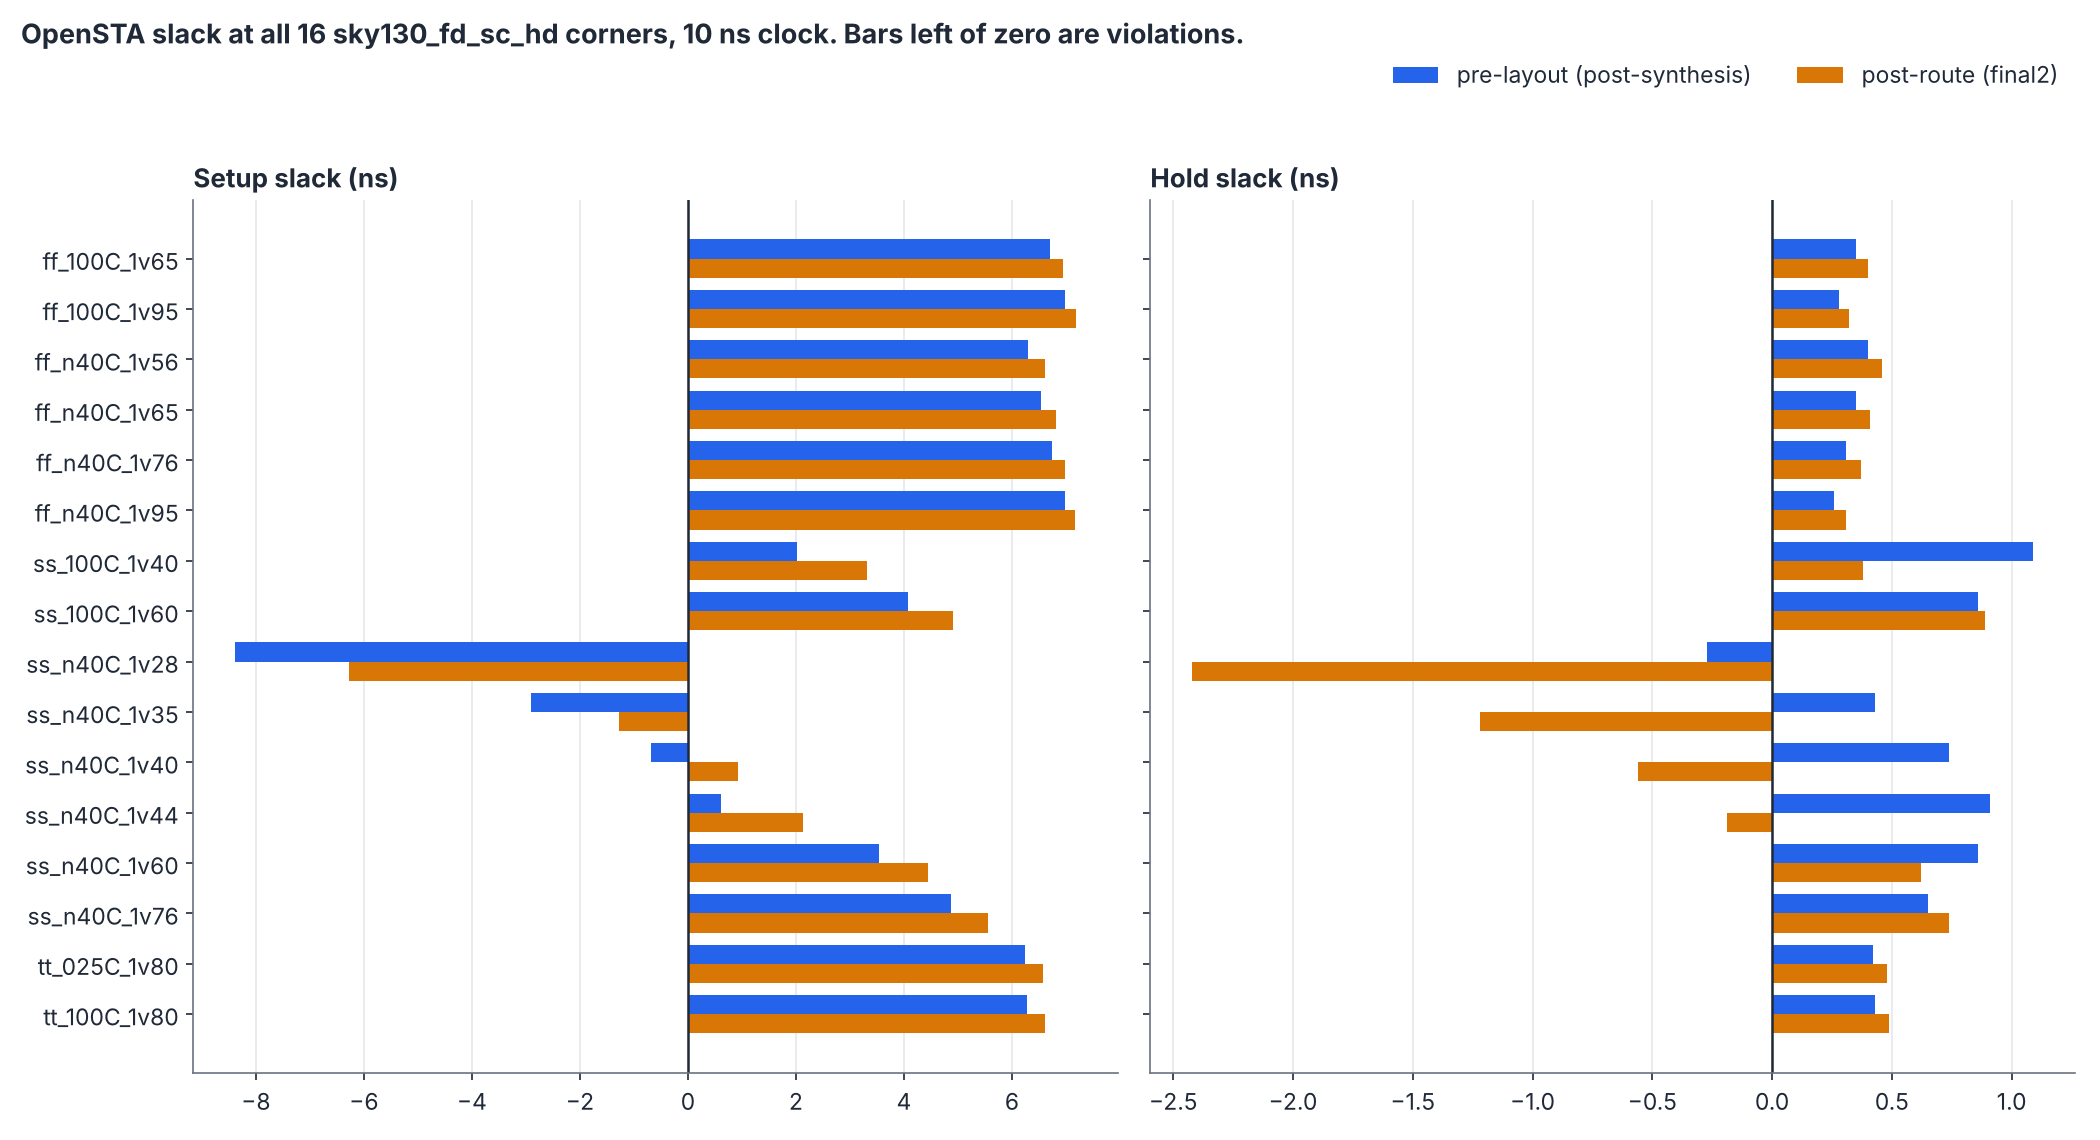
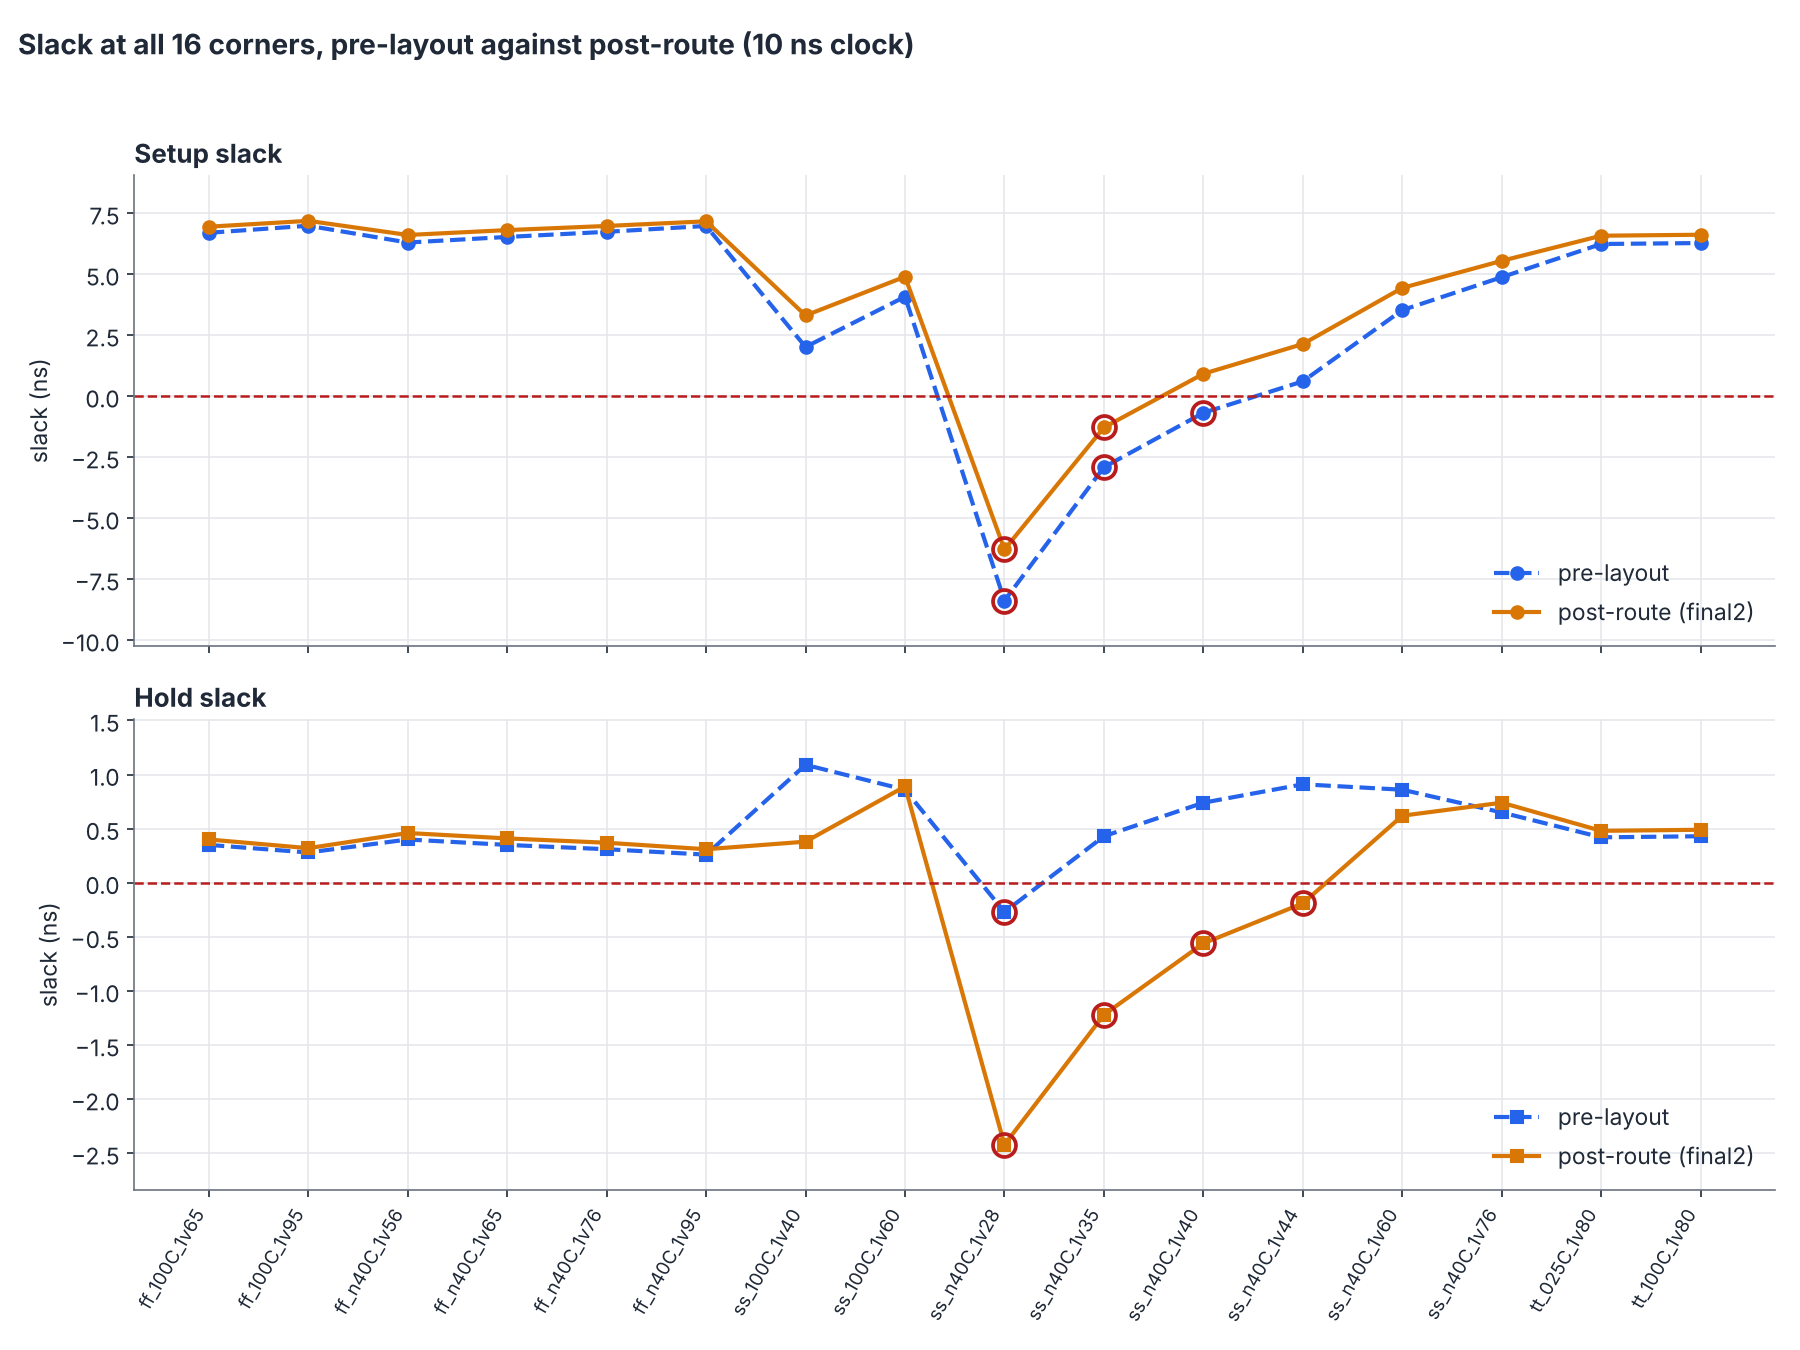
modified readme

diff --git a/FInal Project/README.md b/FInal Project/README.md
@@ -641,26 +641,54 @@ uses the routed netlist, extracted parasitics (SPEF, one nominal corner) and a p
 
 ![Slack at all 16 corners, pre-layout against post-route](images/fig_sta_slack.png)
 
-*Figure 7. The same data as Figures 5 and 6, plotted per corner. Setup improved after layout at every failing corner, and hold got worse at
+*Figure 7. The same data as Figures 5 and 6, plotted as lines over the 16 corners (dashed = pre-layout, solid = post-route). Setup improved after layout at every failing corner, and hold got worse at
 the four cold slow corners.*
 
-The next four figures break the same data out individually. Bars hatched in red are violations, and every bar carries its value, so nothing depends on color alone.
+The next figures are the line charts from the Excel workbook (`sta_all_corners.xlsx`), one chart per metric. The red dashed line is zero, so any point below it is a violation. Each figure has its explanation directly under it.
 
-![Pre-layout STA, one bar per corner](images/fig_sta_prelayout.png)
+![Pre-layout setup slack](images/xl_pre_setup.png)
 
-*Figure 7a. Pre-layout STA on its own: setup and hold slack at each of the 16 corners. Three corners fail setup (`ss_n40C_1v28`, `1v35`, `1v40`), and `ss_n40C_1v28` also fails hold by 0.27 ns.*
+*Figure 7a. Pre-layout setup slack at the 16 corners.*
 
-![Post-route STA, one bar per corner](images/fig_sta_postroute.png)
+Setup slack is above 6 ns at the fast and typical corners and falls at the slow ones. It goes below zero at three cold slow corners: `ss_n40C_1v28` (-8.38 ns), `ss_n40C_1v35` (-2.91 ns) and `ss_n40C_1v40` (-0.68 ns). At `ss_n40C_1v44` it is back to +0.61 ns.
 
-*Figure 7b. Post-route STA on its own (run `final2`). Setup fails at `ss_n40C_1v28` and `1v35`. Hold fails at `1v28`, `1v35`, `1v40` and `1v44`, and the worst hold slack is -2.42 ns.*
+![Pre-layout hold slack](images/xl_pre_hold.png)
 
-![Setup and hold slack, one panel per corner](images/fig_sta_per_corner.png)
+*Figure 7b. Pre-layout hold slack at the 16 corners.*
 
-*Figure 7c. One panel per corner, with pre-layout (blue) and post-route (orange) side by side for setup and hold. Panel titles in red mark corners that violate after routing.*
+Hold slack is positive at every corner except `ss_n40C_1v28`, which fails by 0.27 ns. The rest range from 0.26 to 1.09 ns. These are ideal-wire, ideal-clock numbers, so they are optimistic.
+
+![Pre-layout setup TNS](images/xl_pre_tns.png)
+
+*Figure 7c. Pre-layout total negative slack (setup only).*
+
+TNS is zero at 13 corners. It is -80.81 ns at `ss_n40C_1v28`, -16.19 ns at `ss_n40C_1v35` and -1.17 ns at `ss_n40C_1v40`. Hold violations are not counted in TNS.
+
+![Post-route setup slack](images/xl_post_setup.png)
+
+*Figure 7d. Post-route setup slack at the 16 corners (run `final2`, propagated clock and extracted parasitics).*
+
+Setup improved at every failing corner after layout. `ss_n40C_1v28` goes from -8.38 to -6.28 ns and `ss_n40C_1v35` from -2.91 to -1.28 ns. `ss_n40C_1v40` now passes at +0.92 ns. Only two corners still fail setup.
+
+![Post-route hold slack](images/xl_post_hold.png)
+
+*Figure 7e. Post-route hold slack at the 16 corners.*
+
+Hold got worse at the cold slow corners. Four corners now fail: `ss_n40C_1v28` (-2.42 ns), `1v35` (-1.22 ns), `1v40` (-0.56 ns) and `1v44` (-0.19 ns). Every corner at 1.60 V or above still passes.
+
+![Post-route setup TNS](images/xl_post_tns.png)
+
+*Figure 7f. Post-route total negative slack (setup only).*
+
+TNS is -51.10 ns at `ss_n40C_1v28` and -3.71 ns at `ss_n40C_1v35`, and zero everywhere else. Both are better than before layout (-80.81 and -16.19 ns).
+
+![Slack against supply voltage](images/fig_sta_per_corner.png)
+
+*Figure 7g. Slack against supply voltage, one line per process and temperature (dashed = pre-layout, solid = post-route). Every line rises with voltage. The `ss_n40C` line crosses zero at about 1.4 V for setup and about 1.5 V for hold, so everything at or above the 1.60 V rated minimum passes.*
 
 ![Setup TNS at the violating corners](images/fig_sta_tns.png)
 
-*Figure 7d. Total negative slack (setup only) at the corners that violate. Post-route TNS is lower than pre-layout at `ss_n40C_1v28` (-51.10 against -80.81) and `1v35` (-3.71 against -16.19), and zero at `1v40`. Hold violations are not counted in TNS.*
+*Figure 7h. Setup TNS at all 16 corners (zero is no setup violation). Post-route TNS is better than pre-layout at `ss_n40C_1v28` (-51.10 against -80.81) and `1v35` (-3.71 against -16.19), and zero at `1v40`. Hold violations are not counted in TNS.*
 
 ### 6.3 Reading the results
 
